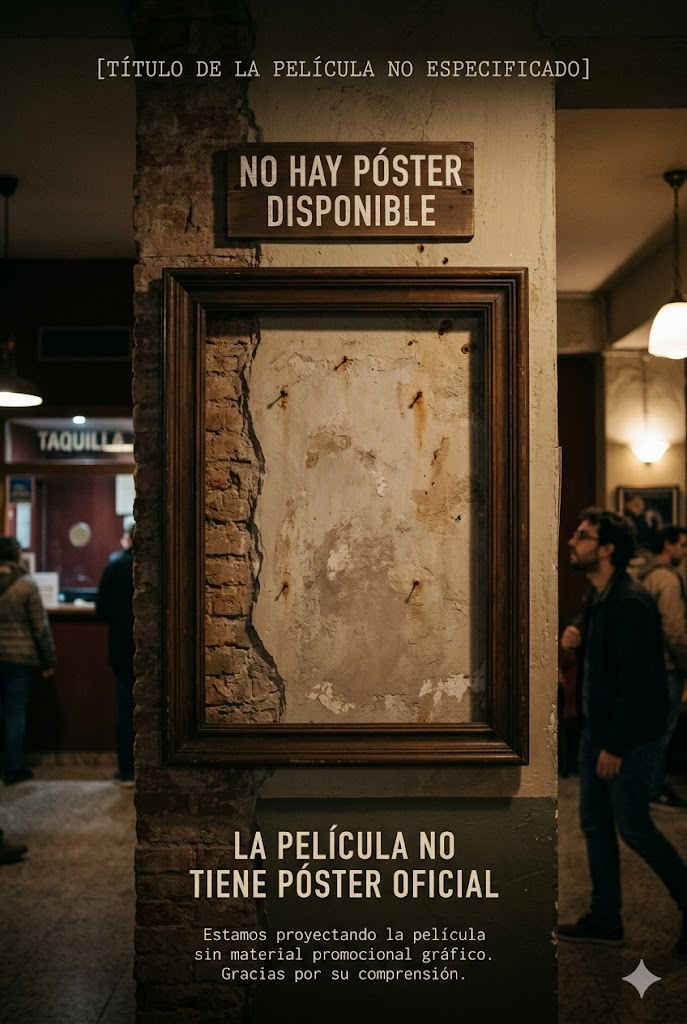
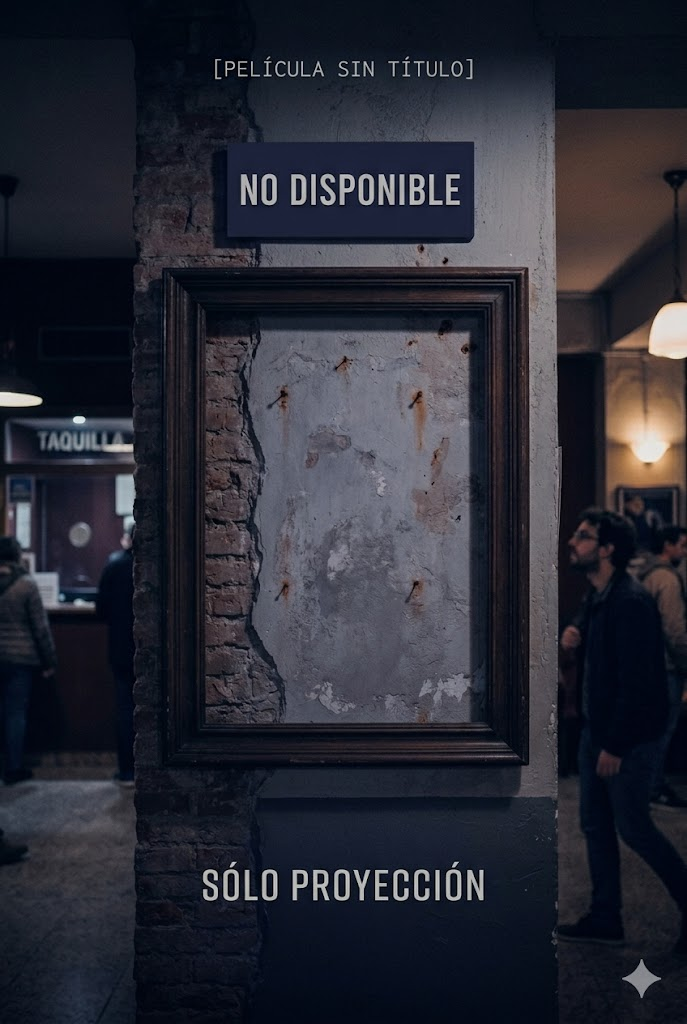
change of not poster image

diff --git a/practica2/src/main/resources/templates/principal.html b/practica2/src/main/resources/templates/principal.html
@@ -19,6 +19,9 @@
                         {{#filmographyImage}}
                         <img src="/img/{{imageId}}" alt="{{filmographyName}}">
                         {{/filmographyImage}}
+                        {{^filmographyImage}}
+                        <img src="images/posterNotAvailable.jpg" alt="{{filmographyName}}">
+                        {{/filmographyImage}}
                         <h5>{{filmographyName}}</h5>
                     </a>
                 </div>
